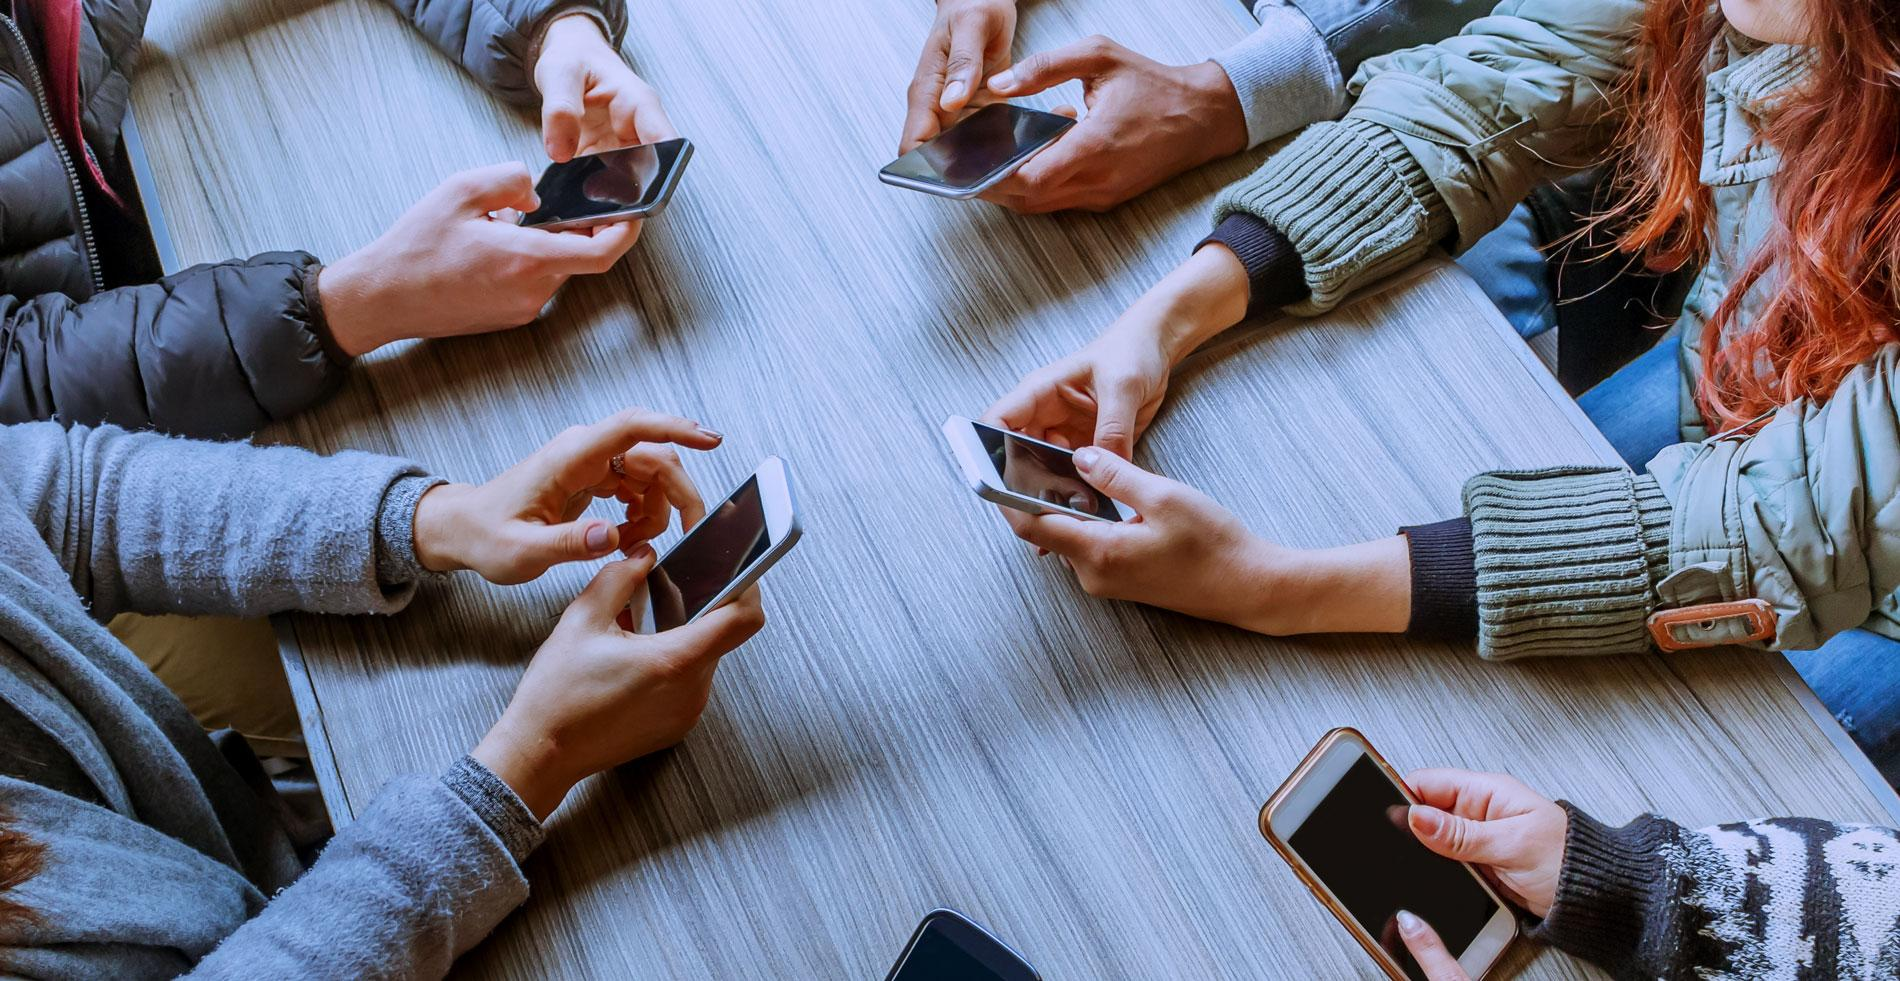
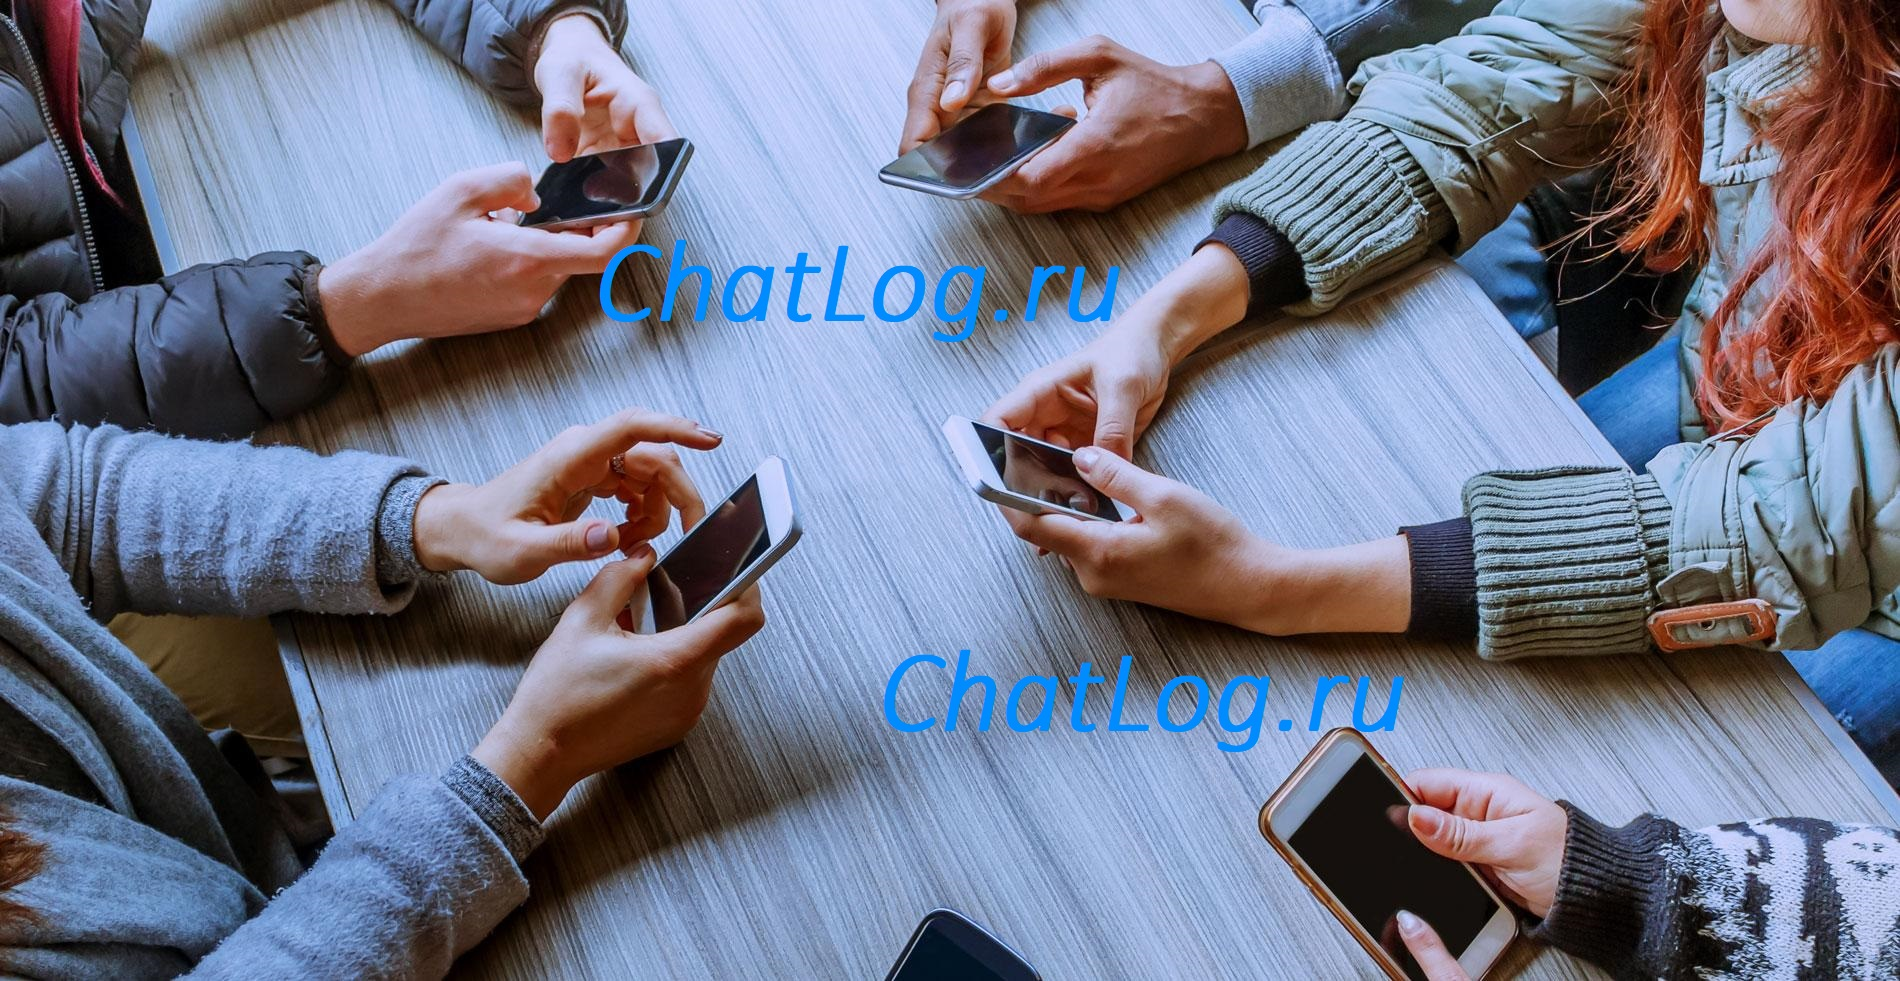
1

Changed region(s): [[0.4658, 0.6422, 0.7453, 0.7645], [0.3105, 0.2446, 0.59, 0.367]]

diff --git a/client/src/landing_page/landing-page.css b/client/src/landing_page/landing-page.css
@@ -43,3 +43,13 @@ body {
     text-decoration: none;
     font-size: 10pt;
 }
+.landing_page_support {
+    background-color:rgb(0, 140, 255);
+    color: white;
+}
+.landing_page_support_link {
+    color: rgb(0, 140, 255);
+    border-radius: 11px;
+    padding: 5px;
+    background-color: white;
+}
